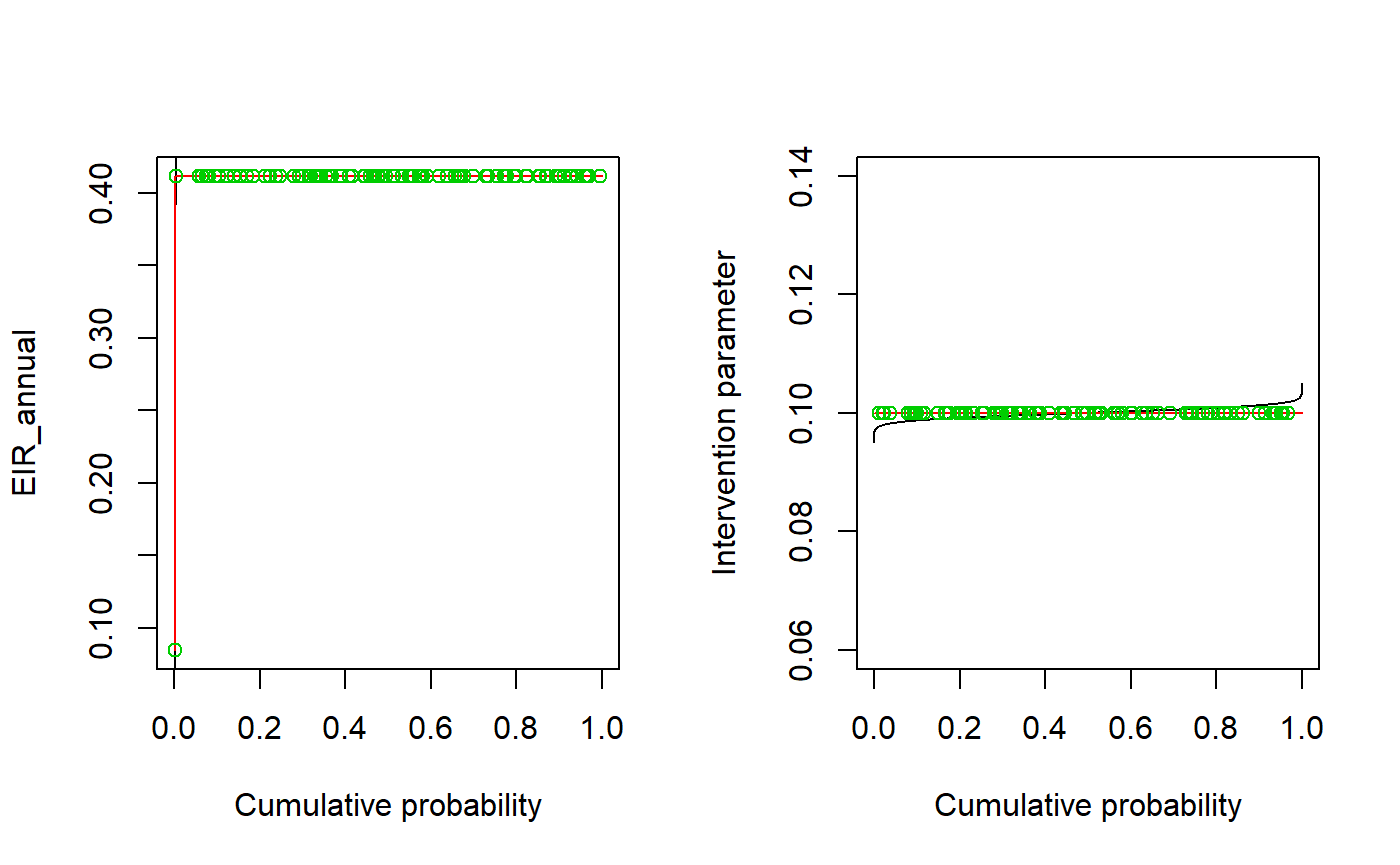
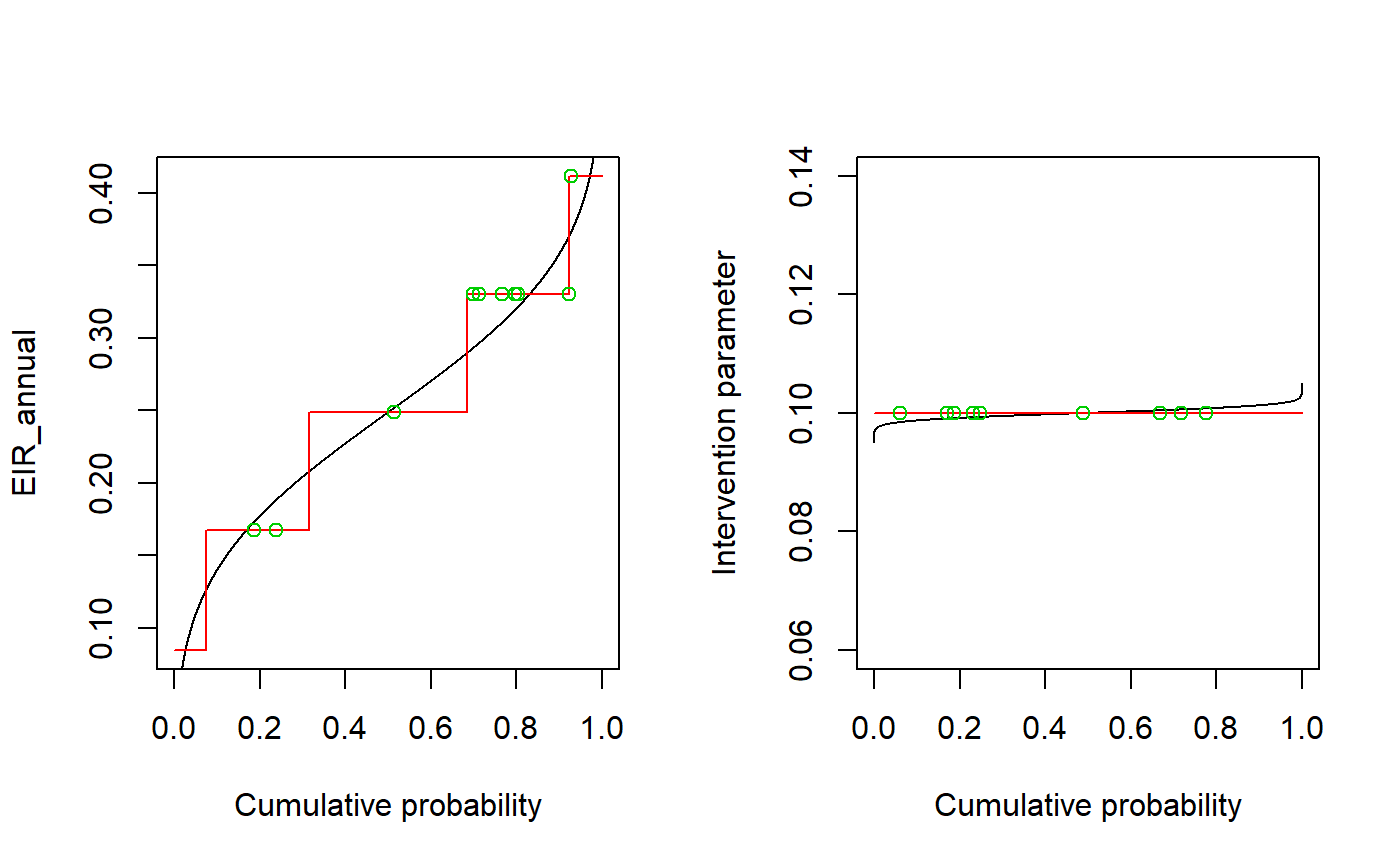
Amended worked examples

diff --git a/docs/articles/E_worked_example03.html b/docs/articles/E_worked_example03.html
@@ -111,12 +111,12 @@
 <a class="sourceLine" id="cb4-2" title="2">                                   <span class="dt">benchmark =</span> <span class="st">"slide_prev"</span>, <span class="dt">age_start=</span><span class="fl">0.0</span>, <span class="dt">age_end=</span><span class="fl">65.0</span>)</a></code></pre></div>
 <p><img src="E_worked_example03_files/figure-html/unnamed-chunk-4-1.png" width="700"></p>
 <p>Once the input list has been created, a set of clusters can be created using the clusters_create() function. The number of clusters to be created is specified using the parameter n_clusters. The example below shows the creation of a set of clusters which are all controls, as the mean intervention parameter int_mean is set to zero with zero standard deviation int_stdev. The mean and standard deviation of the benchmark parameter must be based on the data used in the input list - this is why the setting up of the input data and the creation of the clusters are separated into two functions, so that a user can view the values in the graph produced by cluster_input_setup(). If setup_list2, where the benchmark is the prevalence rather than the annual EIR, was used instead of setup_list1, the values of benchmark_mean and benchmark_stdev would need to be different.</p>
-<div class="sourceCode" id="cb5"><pre class="sourceCode r"><code class="sourceCode r"><a class="sourceLine" id="cb5-1" title="1">cluster_list_con &lt;-<span class="st"> </span><span class="kw"><a href="../reference/clusters_create.html">clusters_create</a></span>(<span class="dt">input_list=</span>setup_list1,<span class="dt">n_clusters=</span><span class="dv">100</span>,</a>
-<a class="sourceLine" id="cb5-2" title="2">                                    <span class="dt">benchmark_mean=</span><span class="fl">3.1</span>, <span class="dt">benchmark_stdev=</span><span class="fl">1.0</span>, <span class="dt">int_mean=</span><span class="fl">0.0</span>, <span class="dt">int_stdev=</span><span class="fl">0.0</span>)</a></code></pre></div>
+<div class="sourceCode" id="cb5"><pre class="sourceCode r"><code class="sourceCode r"><a class="sourceLine" id="cb5-1" title="1">cluster_list_con &lt;-<span class="st"> </span><span class="kw"><a href="../reference/clusters_create.html">clusters_create</a></span>(<span class="dt">input_list=</span>setup_list1,<span class="dt">n_clusters=</span><span class="dv">10</span>,</a>
+<a class="sourceLine" id="cb5-2" title="2">                                    <span class="dt">benchmark_mean=</span><span class="fl">0.249</span>, <span class="dt">benchmark_stdev=</span><span class="fl">0.085</span>, <span class="dt">int_mean=</span><span class="fl">0.0</span>, <span class="dt">int_stdev=</span><span class="fl">0.0</span>)</a></code></pre></div>
 <p><img src="E_worked_example03_files/figure-html/unnamed-chunk-5-1.png" width="700"></p>
 <p>The example below shows the creation of a set of intervention clusters where the intervention parameter is always non-zero. In this case, because only two values of the intervention parameter (0.0 and 0.1) were used in the main population calculations, int_stdev can again be set to zero. If a range of values of the intervention parameter above zero were used, a non-zero standard deviation could be used to draw a range of different values from a probability distribution as with the benchmark. (This could lead to an intervention cluster with an intervention parameter value of zero, representing one where the intervention had no effect for whatever reason.)</p>
-<div class="sourceCode" id="cb6"><pre class="sourceCode r"><code class="sourceCode r"><a class="sourceLine" id="cb6-1" title="1">cluster_list_int &lt;-<span class="st"> </span><span class="kw"><a href="../reference/clusters_create.html">clusters_create</a></span>(<span class="dt">input_list=</span>setup_list1,<span class="dt">n_clusters=</span><span class="dv">100</span>,</a>
-<a class="sourceLine" id="cb6-2" title="2">                                    <span class="dt">benchmark_mean=</span><span class="fl">3.1</span>, <span class="dt">benchmark_stdev=</span><span class="fl">1.0</span>,<span class="dt">int_mean=</span><span class="fl">0.1</span>, <span class="dt">int_stdev=</span><span class="fl">0.0</span>)</a></code></pre></div>
+<div class="sourceCode" id="cb6"><pre class="sourceCode r"><code class="sourceCode r"><a class="sourceLine" id="cb6-1" title="1">cluster_list_int &lt;-<span class="st"> </span><span class="kw"><a href="../reference/clusters_create.html">clusters_create</a></span>(<span class="dt">input_list=</span>setup_list1,<span class="dt">n_clusters=</span><span class="dv">10</span>,</a>
+<a class="sourceLine" id="cb6-2" title="2">                                    <span class="dt">benchmark_mean=</span><span class="fl">0.249</span>, <span class="dt">benchmark_stdev=</span><span class="fl">0.085</span>,<span class="dt">int_mean=</span><span class="fl">0.1</span>, <span class="dt">int_stdev=</span><span class="fl">0.0</span>)</a></code></pre></div>
 <p><img src="E_worked_example03_files/figure-html/unnamed-chunk-6-1.png" width="700"></p>
 <p>As with the main population data, the cluster data can be saved to files for future use.</p>
 <div class="sourceCode" id="cb7"><pre class="sourceCode r"><code class="sourceCode r"><a class="sourceLine" id="cb7-1" title="1"><span class="kw"><a href="https://rdrr.io/r/base/readRDS.html">saveRDS</a></span>(cluster_list_con,<span class="dt">file=</span><span class="st">"cluster_list_con.Rds"</span>)</a>

diff --git a/docs/articles/F_worked_example04.html b/docs/articles/F_worked_example04.html
@@ -110,13 +110,13 @@
 <p>Malaria progression in the trial cohort in each cluster is evaluated using the cohort() function, which runs the stochastic individual-based malaria model (the code for which is found in cohort.cpp in the src/ folder). Here the control group of clusters is simulated:</p>
 <div class="sourceCode" id="cb3"><pre class="sourceCode r"><code class="sourceCode r"><a class="sourceLine" id="cb3-1" title="1"><span class="co"># Simulate control clusters</span></a>
 <a class="sourceLine" id="cb3-2" title="2">cohort_data_con &lt;-<span class="st"> </span><span class="kw"><a href="../reference/cohort.html">cohort</a></span>(<span class="dt">mainpop_data=</span>mainpop_data,<span class="dt">cluster_data=</span>cluster_list_con,</a>
-<a class="sourceLine" id="cb3-3" title="3">                          <span class="dt">output_folder=</span>control_folder,<span class="dt">prop_T_c =</span> <span class="fl">0.9</span>,<span class="dt">n_patients =</span> n_patients,</a>
-<a class="sourceLine" id="cb3-4" title="4">                          <span class="dt">age_start =</span> age_start_coh,<span class="dt">age_end =</span> age_end_coh)</a></code></pre></div>
+<a class="sourceLine" id="cb3-3" title="3">                          <span class="dt">output_folder=</span>control_folder,<span class="dt">prop_T_c =</span> <span class="fl">0.9</span>,<span class="dt">n_patients =</span> <span class="dv">100</span>,</a>
+<a class="sourceLine" id="cb3-4" title="4">                          <span class="dt">age_start =</span> <span class="fl">0.5</span>,<span class="dt">age_end =</span> <span class="fl">10.0</span>)</a></code></pre></div>
 <p>The intervention clusters are simulated in the same way:</p>
 <div class="sourceCode" id="cb4"><pre class="sourceCode r"><code class="sourceCode r"><a class="sourceLine" id="cb4-1" title="1"><span class="co"># Simulate intervention clusters</span></a>
 <a class="sourceLine" id="cb4-2" title="2">cohort_data_int &lt;-<span class="st"> </span><span class="kw"><a href="../reference/cohort.html">cohort</a></span>(<span class="dt">mainpop_data=</span>mainpop_data,<span class="dt">cluster_data=</span>cluster_list_int,</a>
-<a class="sourceLine" id="cb4-3" title="3">                          <span class="dt">output_folder=</span>control_folder,<span class="dt">prop_T_c =</span> <span class="fl">0.9</span>,<span class="dt">n_patients =</span> n_patients,</a>
-<a class="sourceLine" id="cb4-4" title="4">                          <span class="dt">age_start =</span> age_start_coh,<span class="dt">age_end =</span> age_end_coh)</a></code></pre></div>
+<a class="sourceLine" id="cb4-3" title="3">                          <span class="dt">output_folder=</span>control_folder,<span class="dt">prop_T_c =</span> <span class="fl">0.9</span>,<span class="dt">n_patients =</span> <span class="dv">100</span>,</a>
+<a class="sourceLine" id="cb4-4" title="4">                          <span class="dt">age_start =</span> <span class="fl">0.5</span>,<span class="dt">age_end =</span> <span class="fl">10.0</span>)</a></code></pre></div>
 <p>[Data handling - TBA]</p>
   </div>
 
